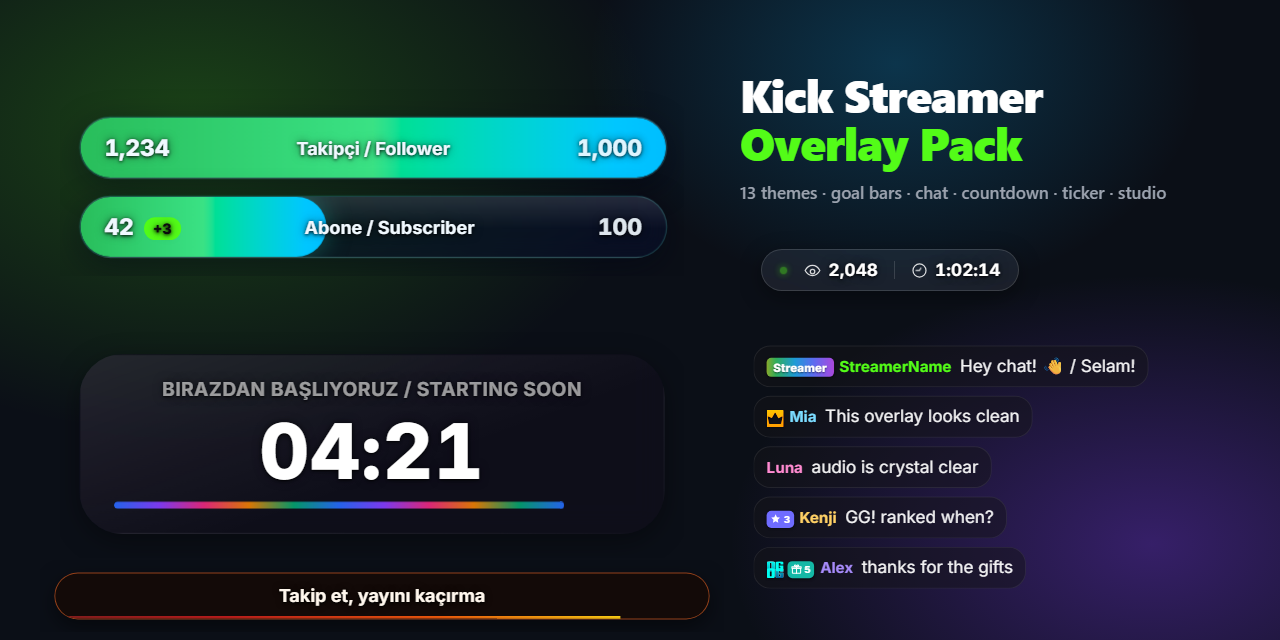
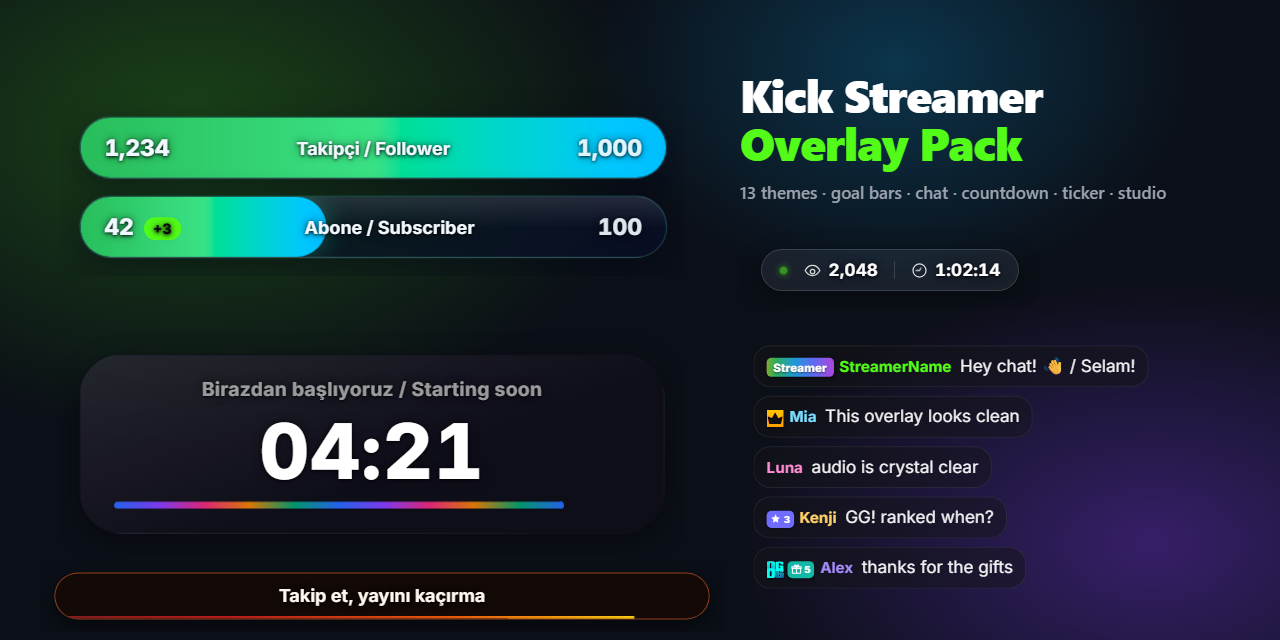
Fix Turkish capitalisation and localise remaining on-screen text
- Countdown title no longer uses CSS uppercase, which turned the dotted İ into a plain I
- Status notes on the bars follow the label language instead of being Turkish only
- Numbers use Turkish separators for dil=tr; the page language follows dil
- Studio: stale chat troubleshooting entry, consistent Kâğıt spelling, clearer wording
- README and changelog wording, release dates and links; consistent page header comments

Changed region(s): [[0.125, 0.5938, 0.4688, 0.625]]

diff --git a/studio.html b/studio.html
@@ -648,7 +648,7 @@
         <h3>Kontrol listesi</h3>
         <ol class="st-list">
           <li>Kanal alanına yalnızca kanal adını yazdınız mı? (kick.com/<strong>ad</strong>)</li>
-          <li>AYARLAR.js dosyasını proje klasörüne koyup OBS'de kaynağı Yenile'diniz mi?</li>
+          <li>AYARLAR.js dosyasını proje klasörüne koyup OBS'de kaynağa sağ tıklayarak Yenile'yi seçtiniz mi?</li>
           <li>OBS kaynağının genişlik ve yüksekliği, bu sayfadaki boyutla aynı mı?</li>
           <li>Canlı abone sayısı istiyorsanız Kick uygulama bilgilerini girip "Bağlantıyı test et" ile doğruladınız mı?</li>
         </ol>
@@ -661,7 +661,7 @@
           </div>
           <div>
             <dt>Kick uygulama bilgisi hatalı — AYARLAR.local.js</dt>
-            <dd>Client ID veya Secret yanlış ya da yetkisiz. Bilgileri kontrol edip kaynağı OBS'de Yenile'yin.</dd>
+            <dd>Client ID veya Secret yanlış ya da yetkisiz. Bilgileri kontrol edip OBS'de kaynağa sağ tıklayıp Yenile'yi seçin.</dd>
           </div>
           <div>
             <dt>Kick'e ulaşılamadı, son değer gösteriliyor</dt>
@@ -672,8 +672,8 @@
             <dd>Kick bu kanal için abone bilgisi vermiyor. Sayı 0 görünebilir; manuel abone sayısı bu durumda kullanılmaz.</dd>
           </div>
           <div>
-            <dt>Canlı sohbet bağlantısı yok (Kick akışı kapalı)</dt>
-            <dd>Kick'in canlı sohbet akışı şu an kapalı; sohbet kutusu boş kalır. Sahte mesaj gösterilmez.</dd>
+            <dt>Canlı sohbet köprüsüne bağlanılamadı</dt>
+            <dd>Sohbet, yerel relay üzerinden gelir. <code>node relay/server.js</code> çalışıyor mu? Çalışmıyorsa sohbet kutusu boş kalır ve sahte mesaj gösterilmez. Kurulum için README'deki Canlı sohbet bölümüne bakın.</dd>
           </div>
           <div>
             <dt>bağlanıyor…</dt>
@@ -702,7 +702,7 @@
     stil: {
       glass: 'Cam', vivid: 'Canlı', soft: 'Yumuşak', cinema: 'Sinema', neon: 'Neon', minimal: 'Minimal',
       pastel: 'Pastel', terminal: 'Terminal', aurora: 'Kuzey Işığı', holo: 'Holografik', ember: 'Kor',
-      paper: 'Kağıt', retro: 'Piksel'
+      paper: 'Kâğıt', retro: 'Piksel'
     },
     sekil: { pill: 'Hap', rounded: 'Yuvarlak', square: 'Kare' },
     yaziTipi: { inter: 'Inter', poppins: 'Poppins', nunito: 'Nunito', mono: 'Mono' },

diff --git a/chat.html b/chat.html
@@ -39,7 +39,7 @@
   const LEAVE_MS = 400;
   const SEEN_CAP = 500;
   const CONNECTING = K.label(S, 'bağlanıyor…', 'connecting…');
-  // Only hex (#rgb or #rrggbb, as in kick-core) or a plain colour name reaches the CSS.
+  // Only hex (#rgb or #rrggbb, as in kick-core) or a plain color name reaches the CSS.
   const HEX_RE = /^#(?:[0-9a-f]{3}|[0-9a-f]{6})$/i;
   const NAME_RE = /^[a-z]{3,20}$/i;
   // Badge art only from Kick's own hosts; anything else falls back to the drawn badge.
@@ -218,7 +218,7 @@
     if(wrap && wrap.classList.contains('ko-badge')) wrap.replaceWith(pill('subscriber', Number(wrap.dataset.months) || 0));
   }, true);
 
-  // Deletes, bans and clears fade out before they are removed.
+  // Messages of a banned user fade out before they are removed.
   function fadeRemove(el){
     if(!el || el.classList.contains('is-leaving')) return;
     el.classList.add('is-leaving');
@@ -304,7 +304,7 @@
   const SAMPLES = [
     { username:'StreamerName', color:'#53fc18', message:'Hey chat! 👋 / Selam!', badges:[{type:'broadcaster'}] },
     { username:'Mia', color:'#7bdcff', message:'This overlay looks clean', badges:[{type:'vip'}] },
-    { username:'Luna', color:'#ff8bd1', message:'audio is crystal clear', badges:[] },
+    { username:'Luna', color:'#ff8bd1', message:'Audio is crystal clear', badges:[] },
     { username:'Kenji', color:'#ffd166', message:'GG! ranked when?', badges:[{type:'subscriber', count:3}] },
     { username:'Alex', color:'#a78bfa', message:'thanks for the gifts', badges:[{type:'og'}, {type:'sub_gifter', count:5}] }
   ];

diff --git a/combined-bar.html b/combined-bar.html
@@ -4,7 +4,7 @@
 <meta charset="UTF-8" />
 <meta name="viewport" content="width=device-width, initial-scale=1.0" />
 <title>Kick Combined Bar</title>
-<!-- OBS Browser source size: 520 x 180 -->
+<!-- OBS Browser source (Local file): 520 x 180. Follower and subscriber goals in one panel. -->
 <link rel="preconnect" href="https://fonts.googleapis.com">
 <link rel="preconnect" href="https://fonts.gstatic.com" crossorigin>
 <link href="https://fonts.googleapis.com/css2?family=Inter:wght@400;500;600;700;800;900&family=Poppins:wght@400;600;700;800&family=Nunito:wght@400;600;700;800;900&family=Roboto+Mono:wght@400;700&display=swap" rel="stylesheet">
@@ -53,10 +53,10 @@
   const note = $('note'), hint = $('hint');
   const TICK = S.yenilemeSn * 1000;
   const NOTES = {
-    auth: 'Kick uygulama bilgisi hatalı — AYARLAR.local.js',
-    rate: "Kick'e ulaşılamadı, son değer gösteriliyor",
-    error: "Kick'e ulaşılamadı, son değer gösteriliyor",
-    'no-data': 'Kick bu kanal için abone verisi döndürmedi'
+    auth: K.label(S, 'Kick uygulama bilgisi hatalı', 'Kick app credentials rejected') + ' — AYARLAR.local.js',
+    rate: K.label(S, "Kick'e ulaşılamadı, son değer gösteriliyor", 'Kick unreachable, showing the last value'),
+    error: K.label(S, "Kick'e ulaşılamadı, son değer gösteriliyor", 'Kick unreachable, showing the last value'),
+    'no-data': K.label(S, 'Kick bu kanal için abone verisi döndürmedi', 'Kick returned no subscriber data for this channel')
   };
 
   function makeRow(root, goal) {

diff --git a/subscriber-bar.html b/subscriber-bar.html
@@ -4,7 +4,7 @@
 <meta charset="UTF-8" />
 <meta name="viewport" content="width=device-width, initial-scale=1.0" />
 <title>Kick Subscriber Bar</title>
-<!-- OBS Browser source size: 520 x 90 -->
+<!-- OBS Browser source (Local file): 520 x 90. Subscriber goal bar. -->
 <link rel="preconnect" href="https://fonts.googleapis.com">
 <link rel="preconnect" href="https://fonts.gstatic.com" crossorigin>
 <link href="https://fonts.googleapis.com/css2?family=Inter:wght@400;500;600;700;800;900&family=Poppins:wght@400;600;700;800&family=Nunito:wght@400;600;700;800;900&family=Roboto+Mono:wght@400;700&display=swap" rel="stylesheet">
@@ -45,10 +45,10 @@
   const note = $('note'), hint = $('hint');
   const GOAL = S.aboneHedefi;
   const NOTES = {
-    auth: 'Kick uygulama bilgisi hatalı — AYARLAR.local.js',
-    rate: "Kick'e ulaşılamadı, son değer gösteriliyor",
-    error: "Kick'e ulaşılamadı, son değer gösteriliyor",
-    'no-data': 'Kick bu kanal için abone verisi döndürmedi'
+    auth: K.label(S, 'Kick uygulama bilgisi hatalı', 'Kick app credentials rejected') + ' — AYARLAR.local.js',
+    rate: K.label(S, "Kick'e ulaşılamadı, son değer gösteriliyor", 'Kick unreachable, showing the last value'),
+    error: K.label(S, "Kick'e ulaşılamadı, son değer gösteriliyor", 'Kick unreachable, showing the last value'),
+    'no-data': K.label(S, 'Kick bu kanal için abone verisi döndürmedi', 'Kick returned no subscriber data for this channel')
   };
 
   $('lbl').textContent = K.label(S, 'Abone', 'Subscriber');

diff --git a/shared/kick-core.js b/shared/kick-core.js
@@ -165,8 +165,11 @@
     return tr + ' / ' + en;
   }
 
+  // Thousands separators follow the label language: 1.234 for tr, 1,234 otherwise. applyLook() sets it.
+  var numLocale = 'en-US';
+
   function fmt(n) {
-    return Math.round(Number(n) || 0).toLocaleString('en-US');
+    return Math.round(Number(n) || 0).toLocaleString(numLocale);
   }
 
   function pct(current, goal) {
@@ -193,6 +196,9 @@
       'motion-' + s.animasyon
     ).join(' ');
     var root = global.document.documentElement;
+    // Lets the browser apply the right language rules (hyphenation, screen readers). "both" stays English.
+    root.lang = s.dil === 'tr' ? 'tr' : 'en';
+    numLocale = s.dil === 'tr' ? 'tr-TR' : 'en-US';
     root.style.setProperty('--accent', s.renk);
     root.style.setProperty('--accent-rgb', hexToRgb(s.renk).join(' '));
   }

diff --git a/tests/run.js b/tests/run.js
@@ -463,6 +463,16 @@ async function testHelpers() {
     eq(doc.documentElement.style.values['--accent-rgb'], '170 187 204', '--accent-rgb');
   });
 
+  await check('fmt() uses Turkish separators only for dil=tr, and applyLook() sets the document language', () => {
+    ctx.document = fakeDocument('');
+    K.applyLook(K.normalize({ dil: 'tr' }));
+    eq(K.fmt(1234567), '1.234.567', 'tr');
+    eq(ctx.document.documentElement.lang, 'tr', 'lang tr');
+    K.applyLook(K.normalize({ dil: 'both' }));
+    eq(K.fmt(1234567), '1,234,567', 'both');
+    eq(ctx.document.documentElement.lang, 'en', 'lang en');
+  });
+
   await check('tween() with 0 ms jumps straight to the end', () => {
     const seen = [];
     K.tween(0, 10, 0, (v) => seen.push(v));

diff --git a/countdown.html b/countdown.html
@@ -23,7 +23,7 @@
     border-radius: var(--r-card);
   }
   body.shape-pill .ko-panel.cd { border-radius: 36px; }
-  .cd-title { font-size: 16px; font-weight: 700; color: var(--muted); letter-spacing: .4px; text-transform: uppercase; text-shadow: var(--text-shadow); }
+  .cd-title { font-size: 16px; font-weight: 700; color: var(--muted); letter-spacing: .3px; text-shadow: var(--text-shadow); }
   .cd-time {
     font-size: 64px; font-weight: 800; line-height: 1; color: var(--text); text-shadow: var(--text-shadow);
     font-variant-numeric: tabular-nums; letter-spacing: 1px;

diff --git a/ticker.html b/ticker.html
@@ -83,7 +83,7 @@
   function showHint(){
     const h = document.createElement('div');
     h.className = 'ko-hint';
-    h.textContent = '⚙ AYARLAR.js → duyuruMetinleri';
+    h.textContent = '⚙ AYARLAR.js → duyuruMetinleri / set your announcements';
     elBar.appendChild(h);
   }
 

diff --git a/info-panel.html b/info-panel.html
@@ -1,5 +1,5 @@
 <!DOCTYPE html>
-<!-- OBS: Browser source, Local file. Size 300 x 80. Hidden while the channel is offline. -->
+<!-- OBS Browser source (Local file): 300 x 80. Viewers and uptime, hidden while the channel is offline. -->
 <html lang="en">
 <head>
 <meta charset="UTF-8" />

diff --git a/follower-bar.html b/follower-bar.html
@@ -1,5 +1,5 @@
 <!DOCTYPE html>
-<!-- OBS: Browser source, Local file. Size 520 x 90. -->
+<!-- OBS Browser source (Local file): 520 x 90. Follower goal bar. -->
 <html lang="en">
 <head>
 <meta charset="UTF-8" />

diff --git a/README.md b/README.md
@@ -67,7 +67,7 @@ Pick a look in `studio.html`, enter your channel name, and add the files to OBS 
 | `ticker.html` | Announcement bar that rotates your lines | 760 × 80 |
 | `studio.html` | Configurator. Open it in a browser, not in OBS | — |
 
-Every animation here uses sample data (`?onizleme=1`), so it shows the design and makes no request to Kick.
+These previews use sample data (`?onizleme=1`), so they show the design and make no request to Kick.
 
 <p align="center">
   <img src="screenshots/chat-preview.gif" width="500" alt="Chat preview: sample messages arrive one by one, with badge art"><br>
@@ -131,7 +131,7 @@ Kick sends chat messages and bans to a web address you register in your Kick app
    ```
 6. Add `chat.html` in OBS as usual. Messages appear as soon as Kick delivers them.
 
-The relay accepts only events with a valid Kick signature and shows each event once. Its overlay port listens on `127.0.0.1` only and refuses requests with a foreign `Host` header, so the tunnel exposes just the webhook path. Kick limits subscriptions per app: 10,000 per event type, and 1,000 for chat messages while the app is unverified.
+The relay accepts only events with a valid Kick signature and passes each event on only once. Its overlay port listens on `127.0.0.1` only and refuses requests with a foreign `Host` header, so the tunnel exposes just the webhook path. Kick limits subscriptions per app: 10,000 per event type, and 1,000 for chat messages while the app is unverified.
 
 <a id="configuration-en"></a>
 ### Configuration
@@ -146,7 +146,7 @@ Every setting lives in `AYARLAR.js`. An invalid value falls back to its default,
 | `yaziTipi` | `inter` · `poppins` · `nunito` · `mono` | `inter` |
 | `dil` | `tr` · `en` · `both` | `both` |
 | `animasyon` | `normal` · `low` · `off` | `normal` |
-| `renk` | Accent colour, hex (e.g. `#53fc18`) | `#53fc18` |
+| `renk` | Accent color, hex (e.g. `#53fc18`) | `#53fc18` |
 | `yayinciYazisi` | Label next to your name in chat (chat only) | `Streamer` |
 | `takipciHedefi` | Follower goal | `1000` |
 | `takipciYedek` | Follower count shown when Kick cannot be reached | `0` |
@@ -161,7 +161,7 @@ Every setting lives in `AYARLAR.js`. An invalid value falls back to its default,
 | `duyuruMetinleri` | Announcement lines separated by `\|`, up to 12, e.g. `Follow for more \| !discord \| New video every Friday` | *(empty)* |
 | `duyuruSn` | Seconds each announcement stays (3–60) | `6` |
 
-**Badge art (optional).** Put an image named `moderator`, `vip`, `og`, `founder`, `verified`, `gifter` or `staff` (`.svg`, `.png`, `.webp`, `.gif`, `.jpg`) in `badges/` to replace the drawn chat badge. A missing file falls back to the drawn symbol. The five included icons are Kick's role artwork, added for convenience; replace or remove them freely (see `badges/OKU-README.txt`).
+**Badge art (optional).** Put an image named `moderator`, `vip`, `og`, `founder`, `verified`, `gifter` or `staff` (`.svg`, `.png`, `.webp`, `.gif`, `.jpg`, `.jpeg`) in `badges/` to replace the drawn chat badge. A missing file falls back to the drawn symbol. The five included icons are Kick's role artwork, added for convenience; replace or remove them freely (see `badges/OKU-README.txt`).
 
 **Kick app for the subscriber total (optional)**
 
@@ -177,7 +177,7 @@ Every setting lives in `AYARLAR.js`. An invalid value falls back to its default,
 
 3. Keep this file private. `.gitignore` already lists it, so Git will not track it. Do not share it or commit it.
 
-The overlay requests and renews its own access token from `id.kick.com`. Kick documents `active_subscribers_count` for a channel but does not describe it, so use the studio's **Test connection** button to confirm the number is your subscriber total.
+The overlay requests and renews its own access token from `id.kick.com`. Kick lists `active_subscribers_count` for a channel but does not explain it, so use the studio's **Test connection** button to confirm the number is your subscriber total.
 
 **Secrets and privacy.** Your client secret is read only from `AYARLAR.local.js` or the studio's memory. It is never placed in a URL, a saved draft, or the generated settings file. The overlays contact only `kick.com`, `api.kick.com`, `id.kick.com`, `files.kick.com`, and Google Fonts (`fonts.googleapis.com`, `fonts.gstatic.com`) for the typefaces. Live chat reaches the overlay from the relay on `127.0.0.1`. The relay talks only to Kick's API and its public key endpoint, and checks every webhook signature before it accepts an event.
 
@@ -186,7 +186,7 @@ The overlay requests and renews its own access token from `id.kick.com`. Kick do
 - Unit tests: `node tests/run.js`, and relay tests: `node tests/relay-test.js` (Node.js 20 or newer, no packages). GitHub Actions runs both on every push.
 - Browser tests: `node tests/e2e-chrome.js`. They need Chrome or Edge. Add `--live --channel <name>` for real Kick data, `--token` for the local mock, `--preview` for sample mode, `--perf` for a 30-second heap and DOM check, and `--relay` for live chat through the relay with signed test events.
 - Pages must stay classic scripts so they work from `file://`. Use the shared `.ko-*` components and tokens in `shared/themes.css`, and prefer `transform` and `opacity` for new animations.
-- `node tools/record-previews.js` re-creates the images in `screenshots/` (needs Node.js 22, Chrome or Edge, and `ffmpeg`).
+- `node tools/record-previews.js` re-creates the images in `screenshots/` (needs Node.js 22 or newer, Chrome or Edge, and `ffmpeg`).
 - More in [CONTRIBUTING.md](CONTRIBUTING.md), [SECURITY.md](SECURITY.md) and the [changelog](CHANGELOG.md).
 
 ### License
@@ -288,7 +288,7 @@ Sorun giderme:
 - **"Kick uygulama bilgisi hatalı"**: Kick uygulama bilgilerini reddetti. `AYARLAR.local.js` içindeki `kickClientId` ve `kickClientSecret` değerlerini kontrol et. Stüdyonun bağlantı testi aynı hatayı gösterir.
 - **"Kick'e ulaşılamadı"**: Kick yanıt vermedi. Ekranda son değer kalır ve overlay yeniden dener.
 - **Abone sayısı 0**: Kick uygulaması kurulu değil, değer `aboneSayisi` alanından gelir.
-- **Geri sayım yeniden başladı**: sayım kaynağın yüklendiği andan başlar. Kaynağı yenilemek ya da *Görünmezken kaynağı kapat* açıkken sahne değiştirmek onu baştan başlatır.
+- **Geri sayım yeniden başladı**: sayım kaynağın yüklendiği andan başlar. Kaynağı yenilemek ya da OBS'de *Shutdown source when not visible* seçeneği açıkken sahne değiştirmek onu baştan başlatır.
 - Duyuru çubuğunda **`⚙ AYARLAR.js → duyuruMetinleri`** yazıyorsa `duyuruMetinleri` alanını doldur, sonra kaynağı yenile.
 
 <a id="canli-sohbet-tr"></a>
@@ -349,7 +349,7 @@ Tüm ayarlar `AYARLAR.js` içindedir. Geçersiz bir değer varsayılanına döne
 | `duyuruMetinleri` | `\|` ile ayrılmış duyuru satırları, en çok 12, ör. `Takip et \| !discord \| Her cuma yeni video` | *(boş)* |
 | `duyuruSn` | Her duyurunun ekranda kalma süresi, saniye (3–60) | `6` |
 
-**Rozet görselleri (isteğe bağlı).** `badges/` klasörüne `moderator`, `vip`, `og`, `founder`, `verified`, `gifter` veya `staff` adıyla bir görsel (`.svg`, `.png`, `.webp`, `.gif`, `.jpg`) koyarsan çizili sohbet rozetinin yerine geçer. Dosya yoksa çizili simge gösterilir. Pakete eklenen beş ikon Kick'in rol görselleridir, kolaylık için eklenmiştir; istediğin gibi değiştirebilir veya kaldırabilirsin (bkz. `badges/OKU-README.txt`).
+**Rozet görselleri (isteğe bağlı).** `badges/` klasörüne `moderator`, `vip`, `og`, `founder`, `verified`, `gifter` veya `staff` adıyla bir görsel (`.svg`, `.png`, `.webp`, `.gif`, `.jpg`, `.jpeg`) koyarsan çizili sohbet rozetinin yerine geçer. Dosya yoksa çizili simge gösterilir. Pakete eklenen beş ikon Kick'in rol görselleridir, kolaylık için eklenmiştir; istediğin gibi değiştirebilir veya kaldırabilirsin (bkz. `badges/OKU-README.txt`).
 
 **Abone toplamı için Kick uygulaması (isteğe bağlı)**
 
@@ -374,7 +374,7 @@ Overlay, erişim anahtarını `id.kick.com` üzerinden kendisi alır ve yeniler.
 - Birim testleri: `node tests/run.js`, relay testleri: `node tests/relay-test.js` (Node.js 20 veya üstü, paket gerekmez). GitHub Actions ikisini de her push'ta çalıştırır.
 - Tarayıcı testleri: `node tests/e2e-chrome.js`. Chrome veya Edge gerekir. Gerçek Kick verisi için `--live --channel <ad>`, yerel sahte sunucu için `--token`, önizleme modu için `--preview`, 30 saniyelik bellek ve DOM kontrolü için `--perf`, imzalı test olaylarıyla relay üzerinden canlı sohbet için `--relay` ekle.
 - Sayfalar `file://` üzerinden çalışabilmek için klasik script olarak kalmalı. Ortak `.ko-*` bileşenlerini ve `shared/themes.css` içindeki değişkenleri kullan, yeni animasyonlar için `transform` ve `opacity` tercih et.
-- `node tools/record-previews.js`, `screenshots/` içindeki görselleri yeniden üretir (Node.js 22, Chrome veya Edge ve `ffmpeg` gerekir).
+- `node tools/record-previews.js`, `screenshots/` içindeki görselleri yeniden üretir (Node.js 22 veya üstü, Chrome veya Edge ve `ffmpeg` gerekir).
 - Ayrıntılar: [CONTRIBUTING.md](CONTRIBUTING.md), [SECURITY.md](SECURITY.md) ve [değişiklik günlüğü](CHANGELOG.md).
 
 ### Lisans

diff --git a/CHANGELOG.md b/CHANGELOG.md
@@ -23,16 +23,12 @@ All notable changes to this project are listed here. The format follows [Keep a 
 - `AYARLAR.js` listed 8 of the 13 themes.
 - Removed a pass-through helper and an ineffective theme rule from the chat overlay.
 
-## [2.0.99] - 2026-10-15
-
-### Added
-- Live chat through the optional local relay in `relay/`, with Kick signature verification.
-
-## [2.0.0] - 2026-10-15
+## [2.0.0] - 2026-10-16
 
 ### Added
 - Thirteen themes, three corner shapes, four fonts, three motion levels and a preview mode (`?onizleme=1`).
 - Studio (`studio.html`) with live previews, presets and a downloadable `AYARLAR.js`.
+- Live chat through the local relay in `relay/`, with Kick signature verification.
 - Subscriber total from Kick's official API with your own app credentials.
 
 ### Changed
@@ -41,6 +37,10 @@ All notable changes to this project are listed here. The format follows [Keep a 
 ### Removed
 - The old Pusher chat and subscriber feed, which Kick no longer accepts.
 
-## [1.0.1] and [1.0.0]
+## [1.0.1] - 2026-06-25
 
-Superseded by 2.0.0. See the notes of those releases on GitHub.
+Bug fixes. Superseded by 2.0.0.
+
+## [1.0.0] - 2026-06-24
+
+First release. Superseded by 2.0.0.
